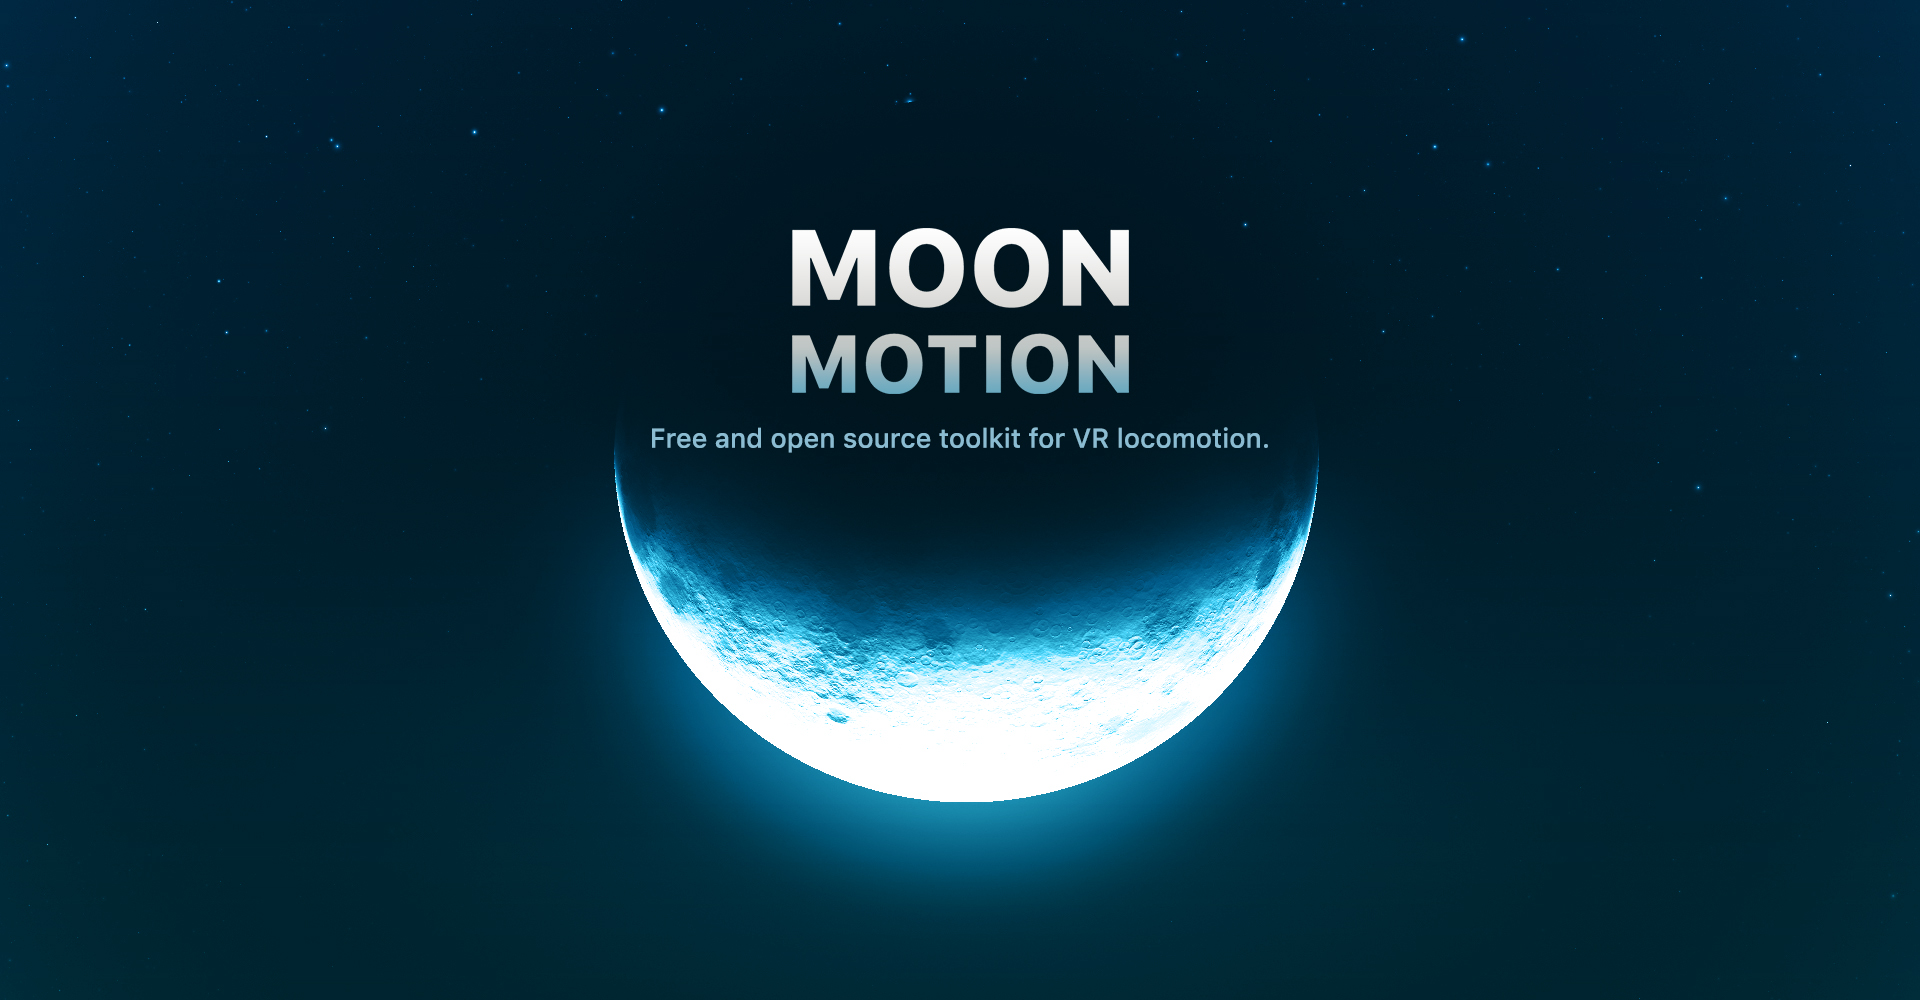
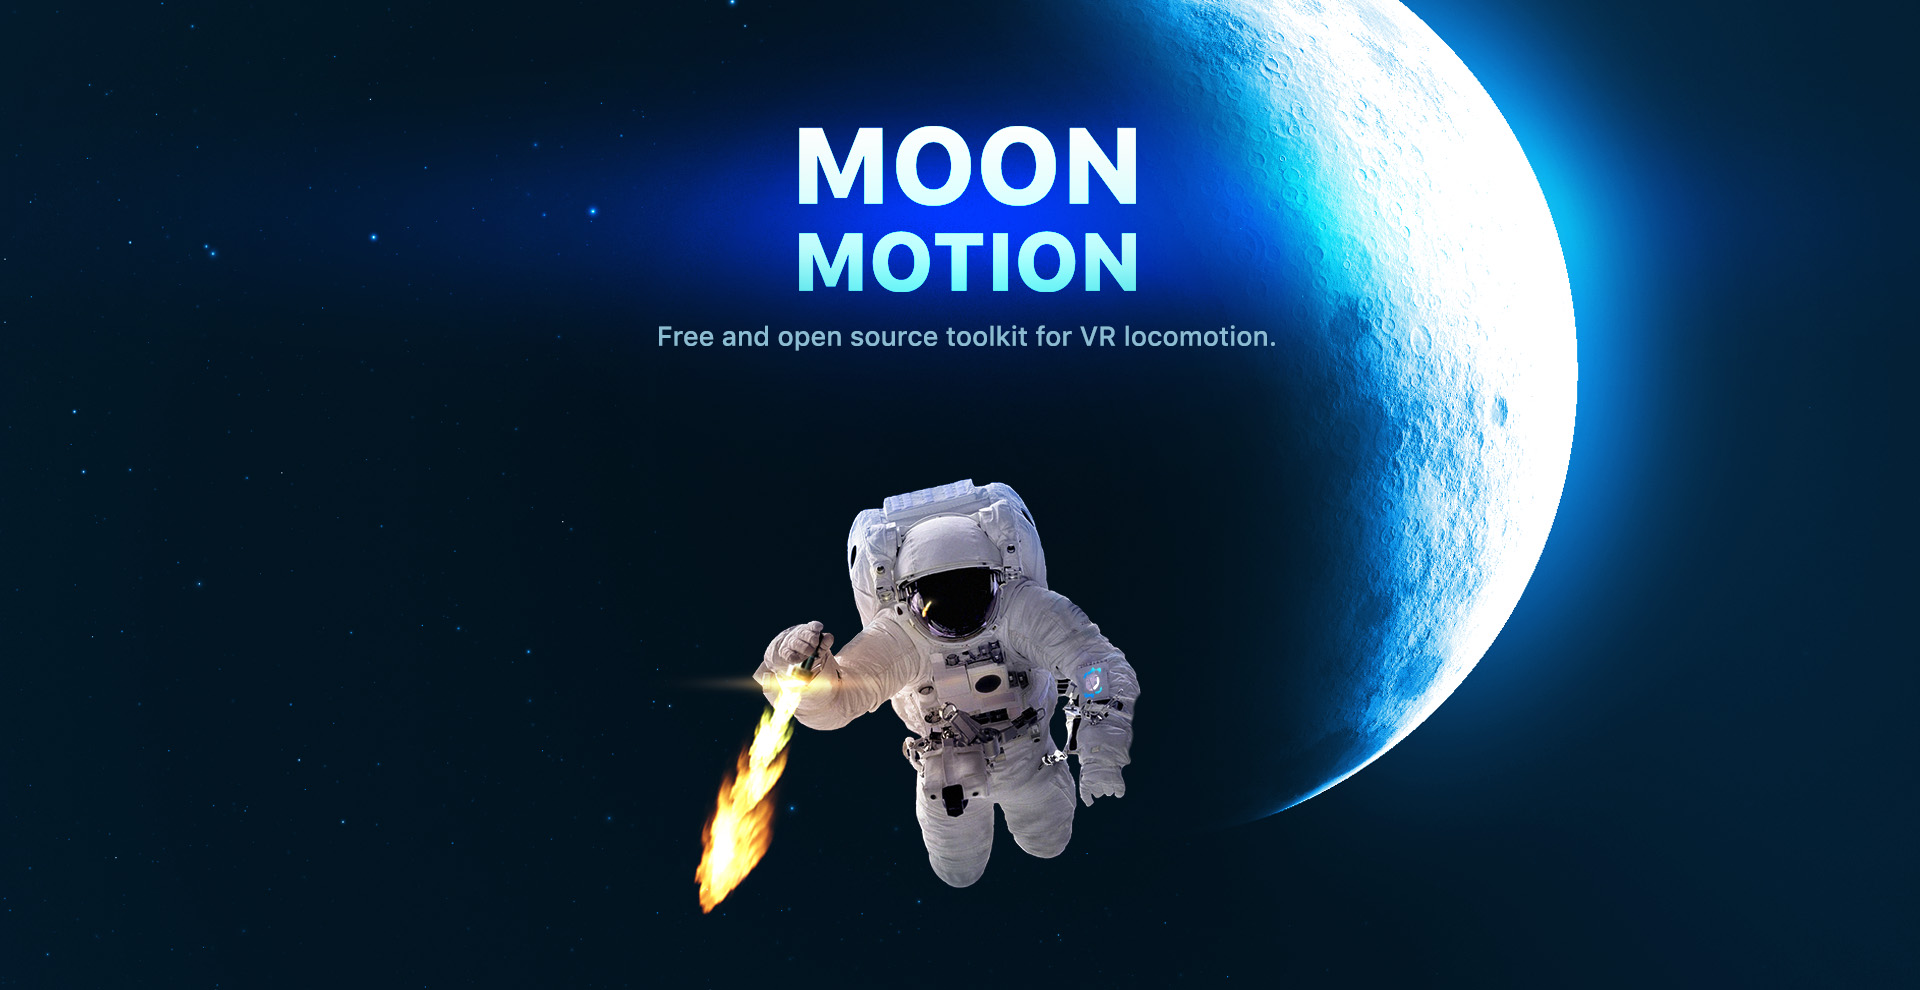
mostly working on Moon Motion site

diff --git a/Moon Motion/index.html b/Moon Motion/index.html
@@ -41,31 +41,148 @@
 				<img src="images/Logo.png" class="unselectable wow fadeIn" id="logo"/>
 			</a>
 			<div class="unselectable wow fadeIn" id="cover-buttons-group">
-				<button>BUTTON</button>
-				<button>BUTTON</button>
+				<button>Learn More</button>
+				<button>Download</button>
 			</div>
 		</div>
 		
-		<!-- block: Features -->
-		<div class="block-padded background-Steam-dark">
-			<h2 class="align-center">
-				Features
+		<!-- block: features -->
+		<div class="block-padded background-dark">
+			<br>
+			<h2 class="weight-heavy wow fadeIn">
+				Locomotions
 			</h2>
+			<div class="wow fadeIn" id="locomotions-grid">
+				<div class="locomotion-grid-item">
+					<video width="100%" height="auto" autoplay muted loop>
+						<source src="../videos/TatteredTenderCaterpillar-mobile.mp4" type="video/mp4"/>
+						Your browser does not support the video tag.
+					</video>
+					<h4>
+						Boosting
+					</h4>
+				</div>
+				<div class="locomotion-grid-item">
+					<video width="100%" height="auto" autoplay muted loop>
+						<source src="../videos/TatteredTenderCaterpillar-mobile.mp4" type="video/mp4"/>
+						Your browser does not support the video tag.
+					</video>
+					<h4>
+						Skiing
+					</h4>
+				</div>
+				<div class="locomotion-grid-item">
+					<video width="100%" height="auto" autoplay muted loop>
+						<source src="../videos/TatteredTenderCaterpillar-mobile.mp4" type="video/mp4"/>
+						Your browser does not support the video tag.
+					</video>
+					<h4>
+						Treading
+					</h4>
+				</div>
+				<div class="locomotion-grid-item">
+					<video width="100%" height="auto" autoplay muted loop>
+						<source src="../videos/TatteredTenderCaterpillar-mobile.mp4" type="video/mp4"/>
+						Your browser does not support the video tag.
+					</video>
+					<h4>
+						Teleportation
+					</h4>
+				</div>
+				<div class="locomotion-grid-item">
+					<video width="100%" height="auto" autoplay muted loop>
+						<source src="../videos/TatteredTenderCaterpillar-mobile.mp4" type="video/mp4"/>
+						Your browser does not support the video tag.
+					</video>
+					<h4>
+						Jumping
+					</h4>
+				</div>
+				<div class="locomotion-grid-item">
+					<video width="100%" height="auto" autoplay muted loop>
+						<source src="../videos/TatteredTenderCaterpillar-mobile.mp4" type="video/mp4"/>
+						Your browser does not support the video tag.
+					</video>
+					<h4>
+						Turning
+					</h4>
+				</div>
+				<div class="locomotion-grid-item">
+					<video width="100%" height="auto" autoplay muted loop>
+						<source src="../videos/TatteredTenderCaterpillar-mobile.mp4" type="video/mp4"/>
+						Your browser does not support the video tag.
+					</video>
+					<h4>
+						Gravity Zones
+					</h4>
+				</div>
+				<div class="locomotion-grid-item">
+					<video width="100%" height="auto" autoplay muted loop>
+						<source src="../videos/TatteredTenderCaterpillar-mobile.mp4" type="video/mp4"/>
+						Your browser does not support the video tag.
+					</video>
+					<h4>
+						Launchers
+					</h4>
+				</div>
+				<div class="locomotion-grid-item">
+					<video width="100%" height="auto" autoplay muted loop>
+						<source src="../videos/TatteredTenderCaterpillar-mobile.mp4" type="video/mp4"/>
+						Your browser does not support the video tag.
+					</video>
+					<h4>
+						Flipping
+					</h4>
+				</div>
+				<div class="locomotion-grid-item">
+					<video width="100%" height="auto" autoplay muted loop>
+						<source src="../videos/TatteredTenderCaterpillar-mobile.mp4" type="video/mp4"/>
+						Your browser does not support the video tag.
+					</video>
+					<h4>
+						Gravity Multiplying
+					</h4>
+				</div>
+				<div class="locomotion-grid-item">
+					<video width="100%" height="auto" autoplay muted loop>
+						<source src="../videos/TatteredTenderCaterpillar-mobile.mp4" type="video/mp4"/>
+						Your browser does not support the video tag.
+					</video>
+					<h4>
+						Scene Fading
+					</h4>
+				</div>
+			</div>
 		</div>
-	
+
 		<div class="block-padded background-light">
-			
+			<br>
+			<h2 class="weight-heavy wow fadeIn">
+				Other
+			</h2>
+			<br>
+			<br>
+			<br>
+			<br>
 		</div>
 
 		<div class="block-padded background-dark">
-			
+			<br>
+			<h2 class="weight-heavy wow fadeIn">
+				Other
+			</h2>
+			<br>
+			<br>
+			<br>
+			<br>
 		</div>
 
 		<!-- block: platforms support -->
 		<div class="block-padded background-white">
-			<h2 class="align-center">
+			<br>
+			<div class="align-center wow fadeIn">
 				<img src="images/Platforms Support.jpg" id="platforms-support"/>
-			</h2>
+			</div>
 		</div>
 		
 	</div>

diff --git a/Moon Motion/css/custom/elements.css b/Moon Motion/css/custom/elements.css
@@ -2,11 +2,9 @@
 
 
 /* styling */
-html {
-	font-family: 'Open Sans', sans-serif;
-}
 body {
 	background-color: var(--color-cover-average);
+	font-family: 'Open Sans', sans-serif;
 }
 
 /* links */
@@ -17,7 +15,7 @@ a {
 /* buttons */
 button {
 	/* sizing */
-    font-size: 1em;
+    font-size: .9em;
     padding: 7px 14px;
 	overflow: hidden;
 	margin: 1rem;
@@ -32,18 +30,40 @@ button {
 	text-transform: uppercase;
 	font-family: 'Open Sans', sans-serif;
 	font-weight: bold;
-    letter-spacing: .075em;
+    letter-spacing: .07em;
 
 	/* coloring */
 	color: white;
 	background-color: transparent;
-	border: 2px solid white;
+	border: 2px solid rgba(255, 255, 255, .6);
+
+	/* transition duration */
+	-o-transition: .2s;
+	-ms-transition: .2s;
+	-moz-transition: .2s;
+	-webkit-transition: .2s;
+	transition: .2s;
 }
 button:hover {
-	color: var(--color-main);
-	background-color: white;
+	border: 2px solid rgba(255, 255, 255, 1);
+	text-shadow: 0 0 50px rgba(0, 69, 253, .4);
+	box-shadow: 0 0 50px rgba(0, 69, 253, .4);
 }
 button:active {
-	color: white;
-	background-color: var(--color-main);
+	color: var(--color-main);
+	background-color: white;
+	text-shadow: none;
+	box-shadow: 0 0 70px rgba(0, 69, 253, .4);
+
+	/* transition duration */
+	-o-transition: .05s;
+	-ms-transition: .05s;
+	-moz-transition: .05s;
+	-webkit-transition: .05s;
+	transition: .05s;
+}
+
+/* headers */
+h1, h2, h3, h4 {
+	text-align: center;	
 }

diff --git a/css/Felewin-baseline.css b/css/Felewin-baseline.css
@@ -5,6 +5,7 @@
 
 :root {
     --color-Felewin: #5cb85c;
+    --color-light: white;
     --color-dark: #232325;
 	--color-selection: #b0f3e6;
 	--color-link: var(--color-Felewin);
@@ -36,11 +37,11 @@ a {
     text-decoration: none;
 
 	/* transition duration */
-	-o-transition:.2s;
-	-ms-transition:.2s;
-	-moz-transition:.2s;
-	-webkit-transition:.2s;
-	transition:.2s;
+	-o-transition: .2s;
+	-ms-transition: .2s;
+	-moz-transition: .2s;
+	-webkit-transition: .2s;
+	transition: .2s;
 }
 a:hover {
 	color: var(--color-link-hovered);
@@ -58,6 +59,9 @@ a:link {
 }
 
 /* buttons */
+button {
+	cursor: pointer;
+}
 button:focus {
 	outline: 0;
 }
@@ -117,6 +121,10 @@ button:focus {
 .background-white {
 	background-color: white;
 	color: black;
+}
+.background-light {
+	background-color: var(--color-light);
+	color: white;
 }
 .background-dark {
 	background-color: var(--color-dark);

diff --git a/Moon Motion/css/custom/identifiers.css b/Moon Motion/css/custom/identifiers.css
@@ -23,7 +23,7 @@
     width: 100%;
 
 	/* height set to match background image's height: https://stackoverflow.com/a/22211990/3900755 */
-    padding-bottom: 52.0833333333%;	/* (img-height / img-width * container-width) so (1000 / 1920 * 100) */
+    padding-bottom: 51.5625%;	/* (img-height / img-width * container-width) so (990 / 1920 * 100) */
 
 	padding-left: 0%;
 	padding-right: 0%;
@@ -32,11 +32,20 @@
 #cover-buttons-group {
 	position: absolute;
 	float: left;
-	top: 56%;
+	top: 43.55%;
 	left: 50%;
 	transform: translate(-50%, -50%);
 }
 
+/* block: features */
+#locomotions-grid {
+	display: grid;
+	grid-template-columns: repeat(auto-fill, minmax(20em, 1fr));
+	margin-left: 20%;
+	margin-right: 20%;
+}
+
+/* block: platforms support */
 #platforms-support {
 	width: 40%;
 	height: auto;

diff --git a/Moon Motion/css/custom/colors.css b/Moon Motion/css/custom/colors.css
@@ -1,13 +1,23 @@
 /* COLORS */
 
 :root {
-    --color-main: #259ece;
-	--color-cover-average: #0c3040;
-	--color-light: var(--color-cover-average);
-	--color-dark: #09212c;
+	/* cover */
+	--color-cover-average: #0073ad;
+
+	/* other brands */
+	--color-Vive: #25a1c3;
+	--color-Steam: #171a21;
+
+	/* general */
+    --color-main: var(--color-cover-average);
+	--color-light: var(--color-Vive);
+	--color-dark: var(--color-Steam);
+
+	/* icon */
 	--color-icon-light: #53bdd3;
 	--color-icon-dark: #1996cd;
+
+	/* links */
     --color-link: var(--color-icon-light);
     --color-link-hovered: var(--color-icon-dark);
-	--color-Steam-dark: #171a21;
 }

diff --git a/Moon Motion/css/custom/classes.css b/Moon Motion/css/custom/classes.css
@@ -6,13 +6,16 @@
 	font-family: 'Open Sans', sans-serif;
 }
 
-/* backgrounds */
-.background-light {
-	background-color: var(--color-light);
+/* grid items */
+.locomotion-grid-item {
+	/* spacing */
+	padding: 1em;
 }
-.background-dark {
-	background-color: var(--color-dark);
+.locomotion-grid-item > h4 {
+	text-transform: uppercase;
+    font-size: 1.3em;
+    letter-spacing: .08em;
 }
-.background-Steam-dark {
-	background-color: var(--color-Steam-dark);
+.locomotion-grid-item > video {
+	border: 4px solid var(--color-light);
 }
